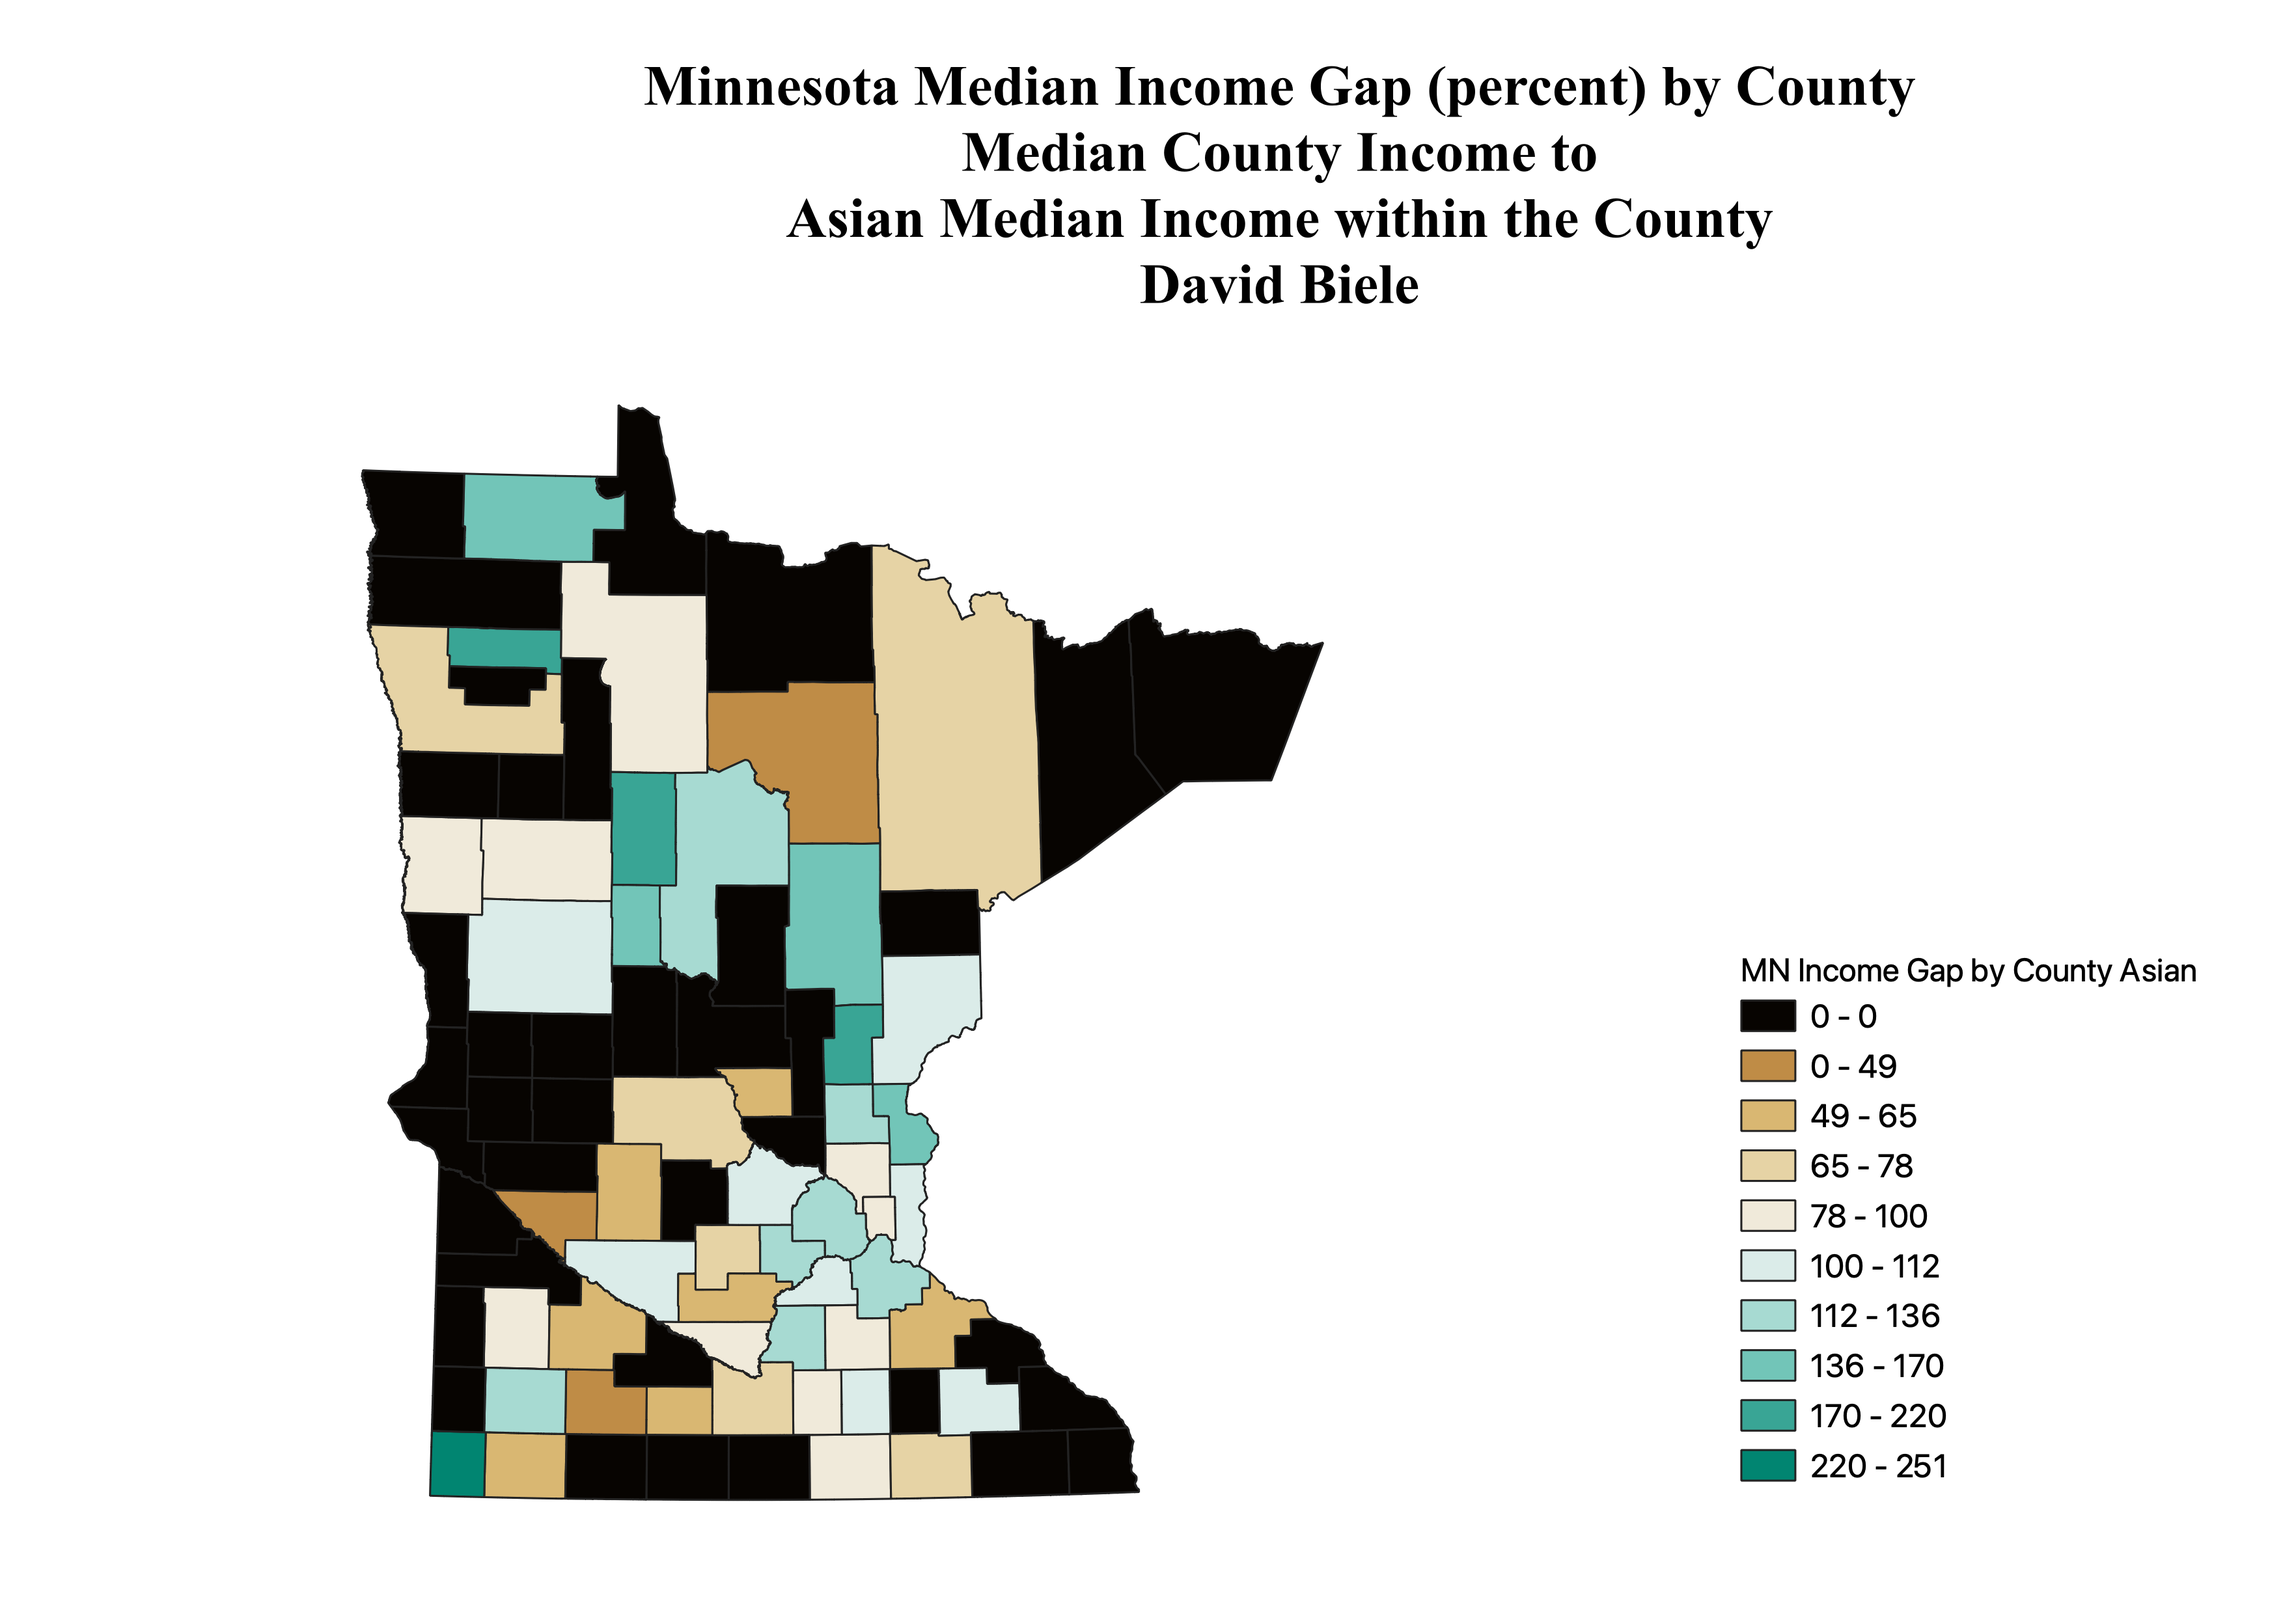
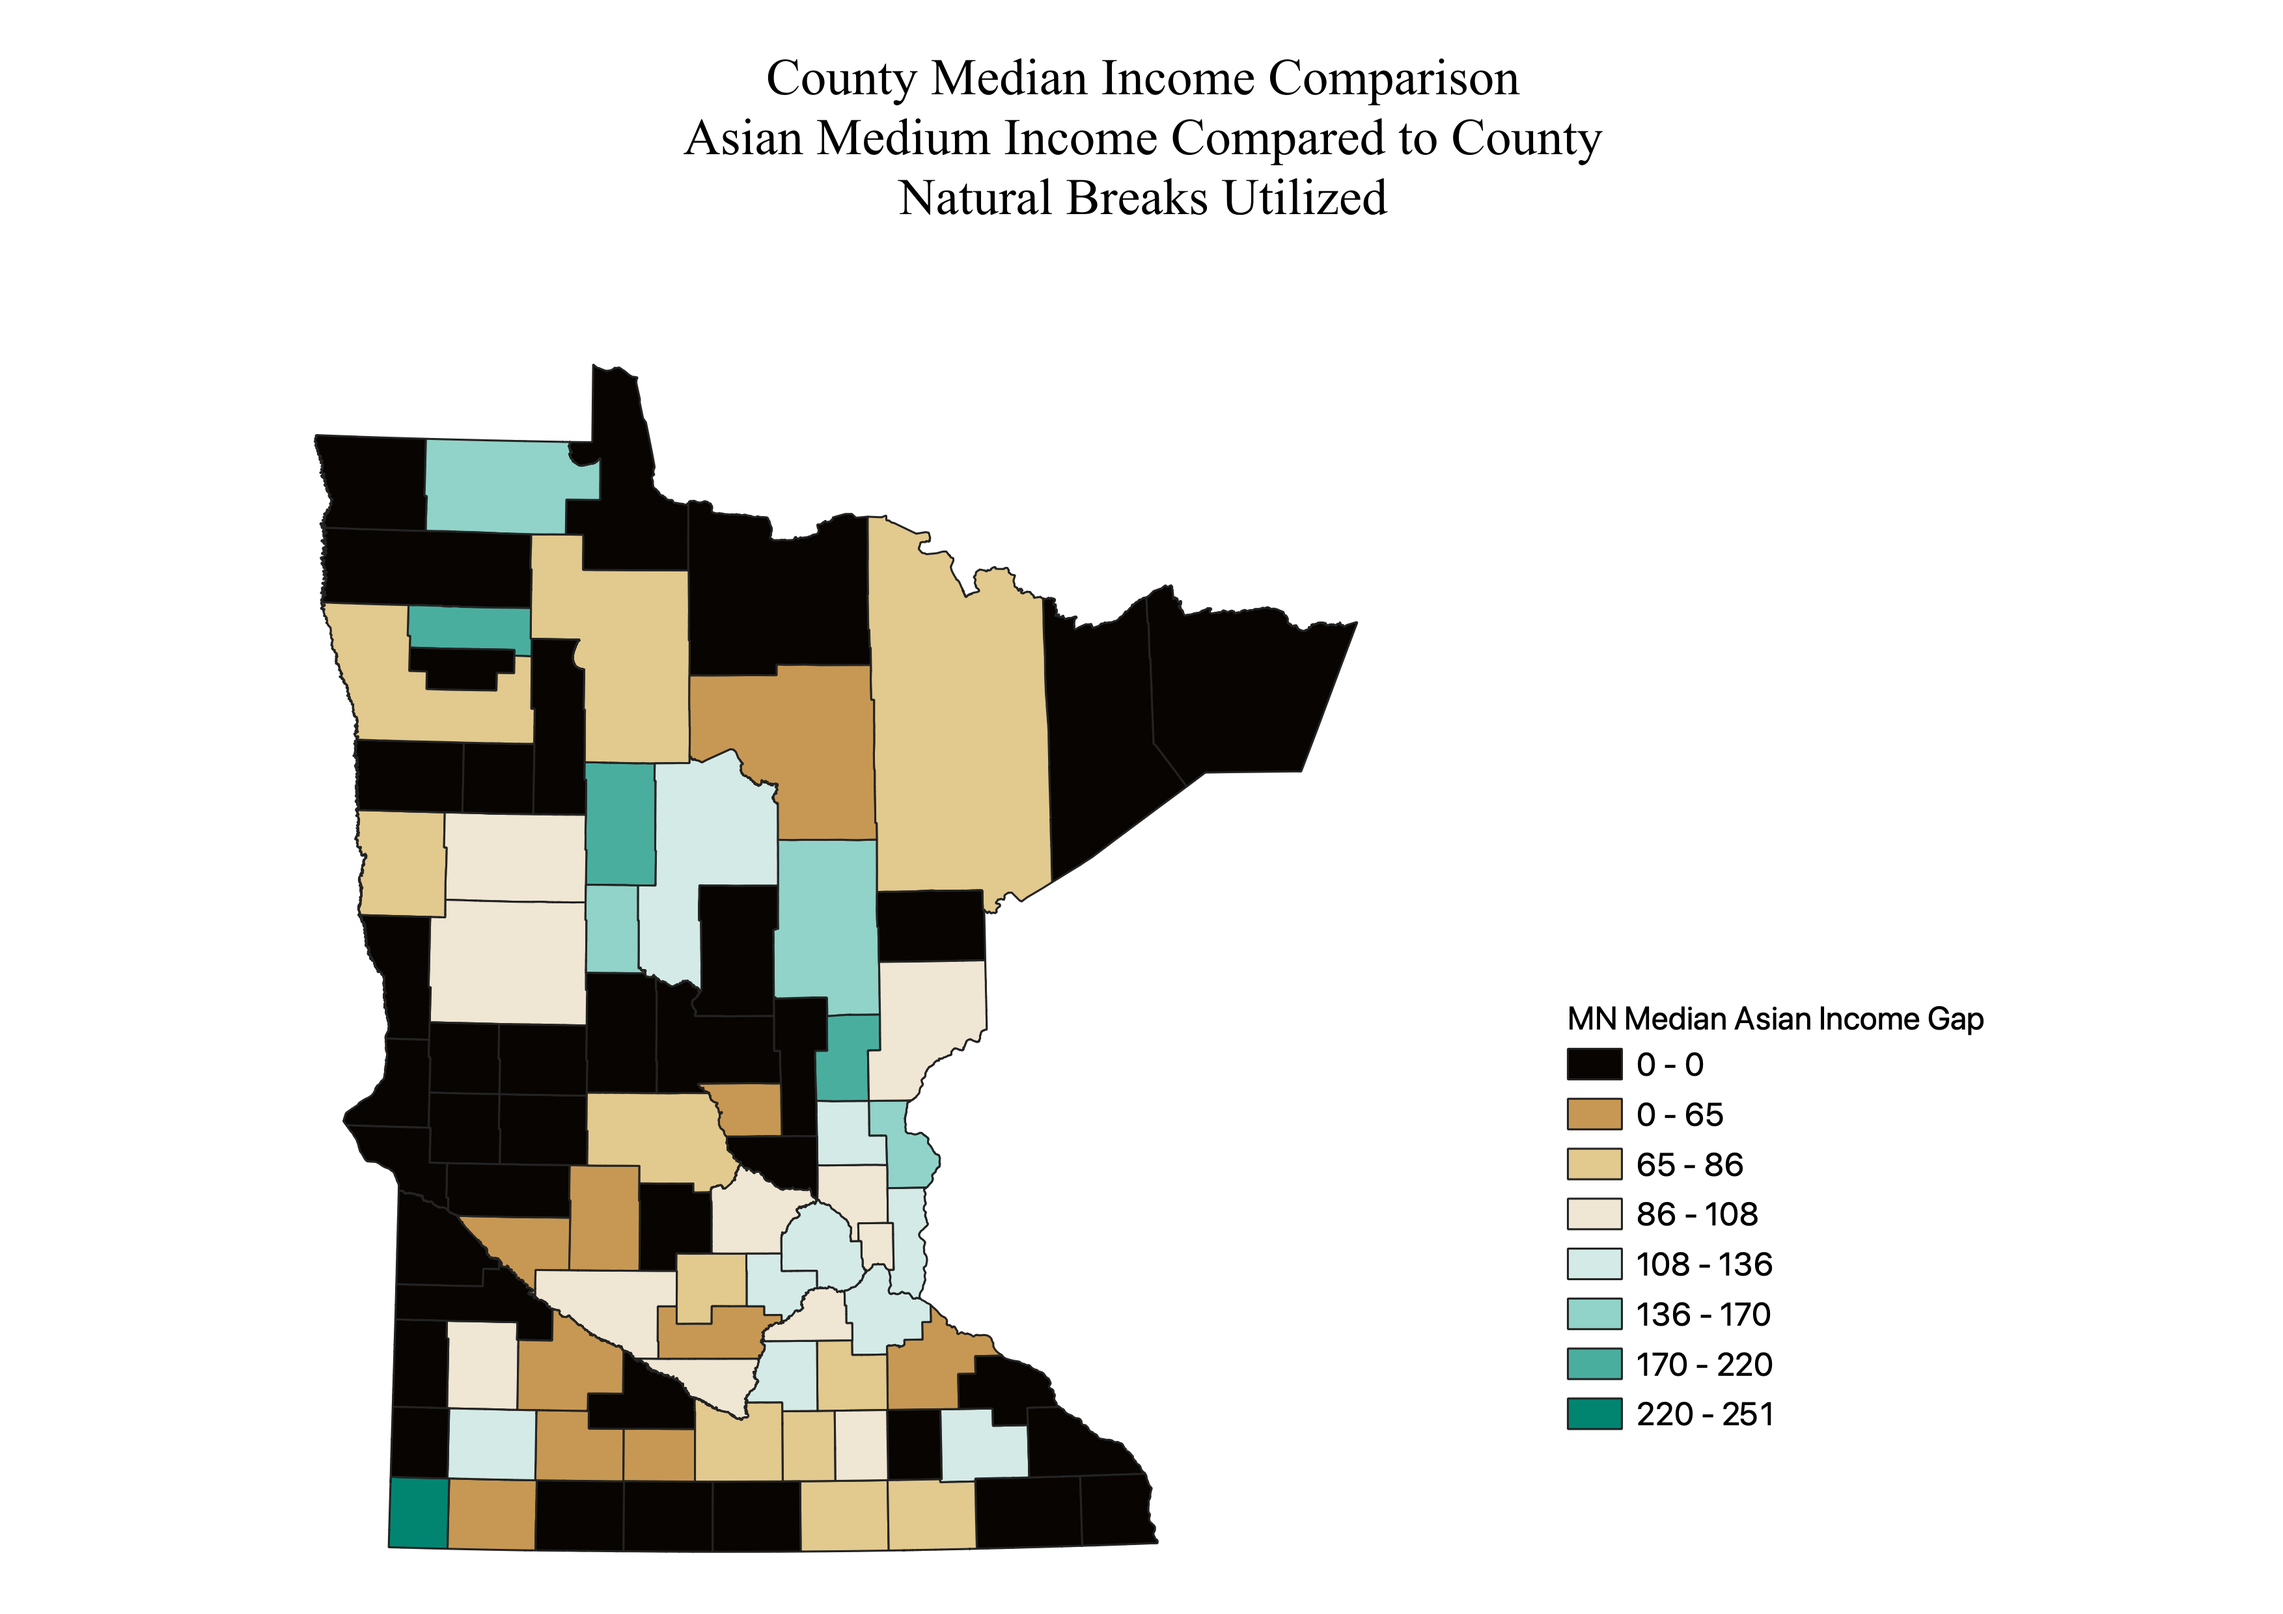
push to update 8

Changed region(s): [[0.1243, 0.2173, 0.5905, 0.9625], [0.2797, 0.031, 0.8392, 0.1863], [0.6838, 0.5899, 0.9635, 0.9315]]

diff --git a/Income Comparison/HW8.html b/Income Comparison/HW8.html
@@ -8,18 +8,22 @@
 <body>
 <h1>Homework 8: Census Data Comparisons </h1>
 <h2>David Biele</h2>
-<h3>These are choropleths of Median Income Gaps, by Race, per County in Minnesota.  The Projection is 26792, which is for central Minnesota.  Stretching on counties in the northern portion of the state is visible.  Data was obtained from the US Census and is based on the American Community Survey Results.  Data displays the percentage difference of the reported median income of the county.  Rural counties lacked complete data and have a higher margin of error.  Some median income data could not be obtained for some groups. </h3>
+<h3>These are choropleths of Median Income Gaps, by Race, per County in Minnesota.  The Projection is 26792, which is for central Minnesota.  Stretching on counties in the northern portion of the state is visible.  Data was obtained from the US Census and is based on the American Community Survey Results.  Data displays the percentage difference of the reported median income of the county.  Rural counties lacked complete data and have a higher margin of error.  Some median income data could not be obtained for some groups.  The group median income by county was devided by the median income by county and then multiplied by 100 in order to show a simple percentage of median income gaps by county.  Incomplete data was omitted. </h3>
 <!-- Your map goes here -->
 <a href="./">
     <img src="./MN_WH_Median.png" alt=" White Median Income Gap In Minnesota by County Using Pretty Breaks" width='800px'>
     </a>
+    <h4>Pretty Breaks was utilized in order to highlight the areas that had a more prominent deviation from the expected value.  Color scale of Yellow to Green was used to show the shift from below to at median to above median.</h4>
 <a href="./">
     <img src="./MN_NA_Median.png" alt="Native American Median Income Gap In Minnesota by County Using Equal Breaks" width='800px'>
     </a>
+    <h5>Equal Interval was used to show the greater variation per county in income gaps.  Purple to orange color scale was used to accentuate the above median areas. </h5>
 <a href="./">
     <img src="./MN_AS_Median.png" alt="Asian Median Income Gap In Minnesota by County Using Natural Breaks" width='800px'>
     </a>
-
+    <h6>Natural Breaks was utilized because it provided the clearest distinction between areas of disparity.  Brown to Green help highlight the below, median, and high counties.  The blacked out ares show counties that lacked data collection.</h6>
+    </a>
+    <h7>Overall these three maps show the wide range in median income disparity found in the counties. Due to the variation of median income, different modes were applied to the data in order to differentiate some of the data.  Utilizing contrasting colors in the schemes allowed for highlighting the different regioms of below, median, and above.  Comparing Median county income to specific groups highlighted some of the disparity by region.  Limitations of demographics of the state show from map 1 to map three.  White median income tracks closely to county while Asian median income is incomplete in many counties and may show that the overall data collected for all the counties may not be accurate. Unreported data was set to 0 in order to allow for all counties to be analyzed </h7>
 <!-- Link to your shapefile in Github and you CSV -->
 <h2>Data used for this project</h2>
     <a href="./Cleaned_Fixed_MN_Country_Median_Income_by_Race.csv"> CSV dataset </a>
